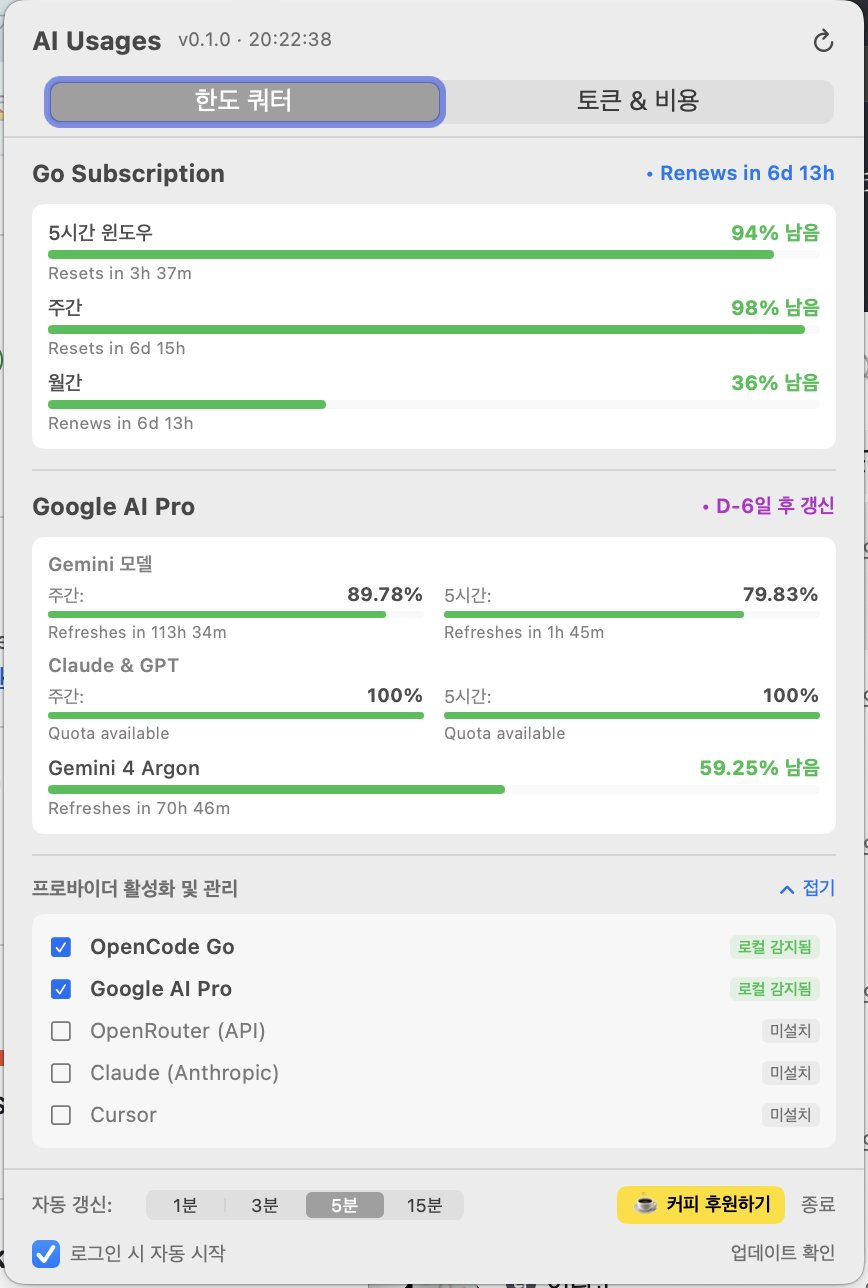
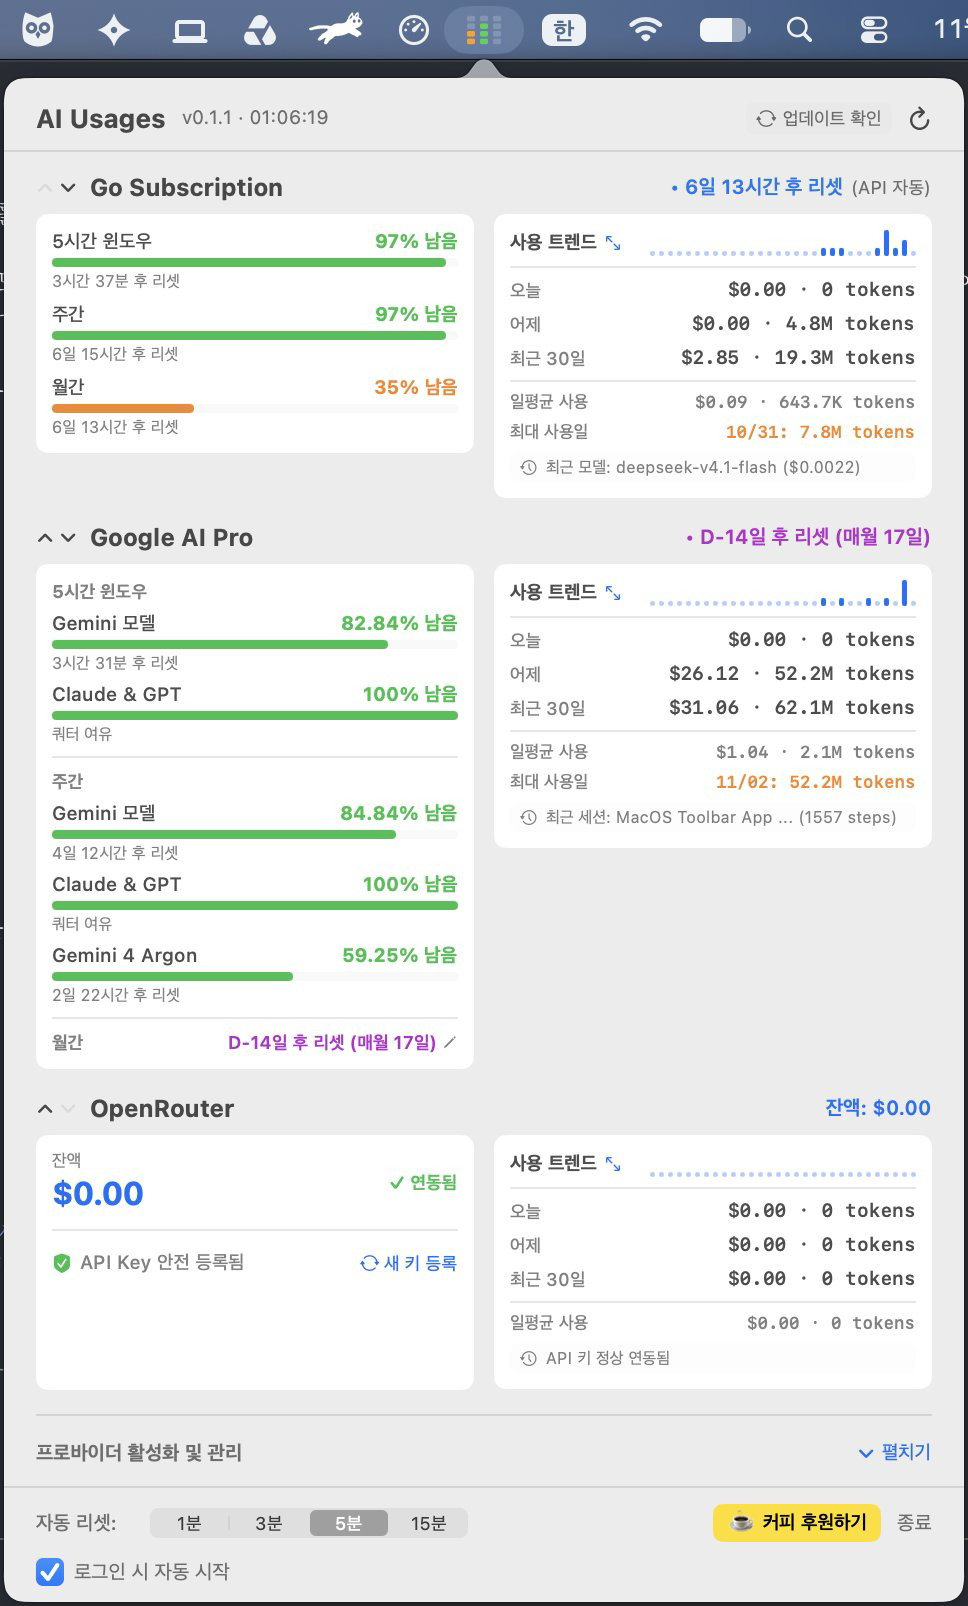
fix: Update README screenshot, format Google reset to N일 m시간, and bump version to 0.1.3

diff --git a/Sources/Usages/GoogleAIProvider.swift b/Sources/Usages/GoogleAIProvider.swift
@@ -113,16 +113,21 @@ public final class GoogleAIProvider: @unchecked Sendable {
             return ("", 0)
         }
         
-        let startOfToday = calendar.startOfDay(for: now)
-        let startOfBilling = calendar.startOfDay(for: billingDate)
-        let days = calendar.dateComponents([.day], from: startOfToday, to: startOfBilling).day ?? 0
+        let diff = max(0, Int(billingDate.timeIntervalSince(now)))
+        let totalHours = diff / 3600
+        let days = totalHours / 24
+        let hours = totalHours % 24
         
         let isKorean = L10n.isKorean
         let dateStr: String
         if days == 0 {
-            dateStr = isKorean ? "D-Day (오늘 리셋)" : "Resets today"
+            if hours == 0 {
+                dateStr = isKorean ? "오늘 리셋 (매월 \(dayOfMonth)일)" : "Resets today (\(dayOfMonth)th)"
+            } else {
+                dateStr = isKorean ? "\(hours)시간 후 리셋 (매월 \(dayOfMonth)일)" : "Resets in \(hours)h (\(dayOfMonth)th)"
+            }
         } else {
-            dateStr = isKorean ? "D-\(days)일 후 리셋 (매월 \(dayOfMonth)일)" : "Resets in \(days)d (\(dayOfMonth)th)"
+            dateStr = isKorean ? "\(days)일 \(hours)시간 후 리셋 (매월 \(dayOfMonth)일)" : "Resets in \(days)d \(hours)h (\(dayOfMonth)th)"
         }
         return (dateStr, days)
     }
